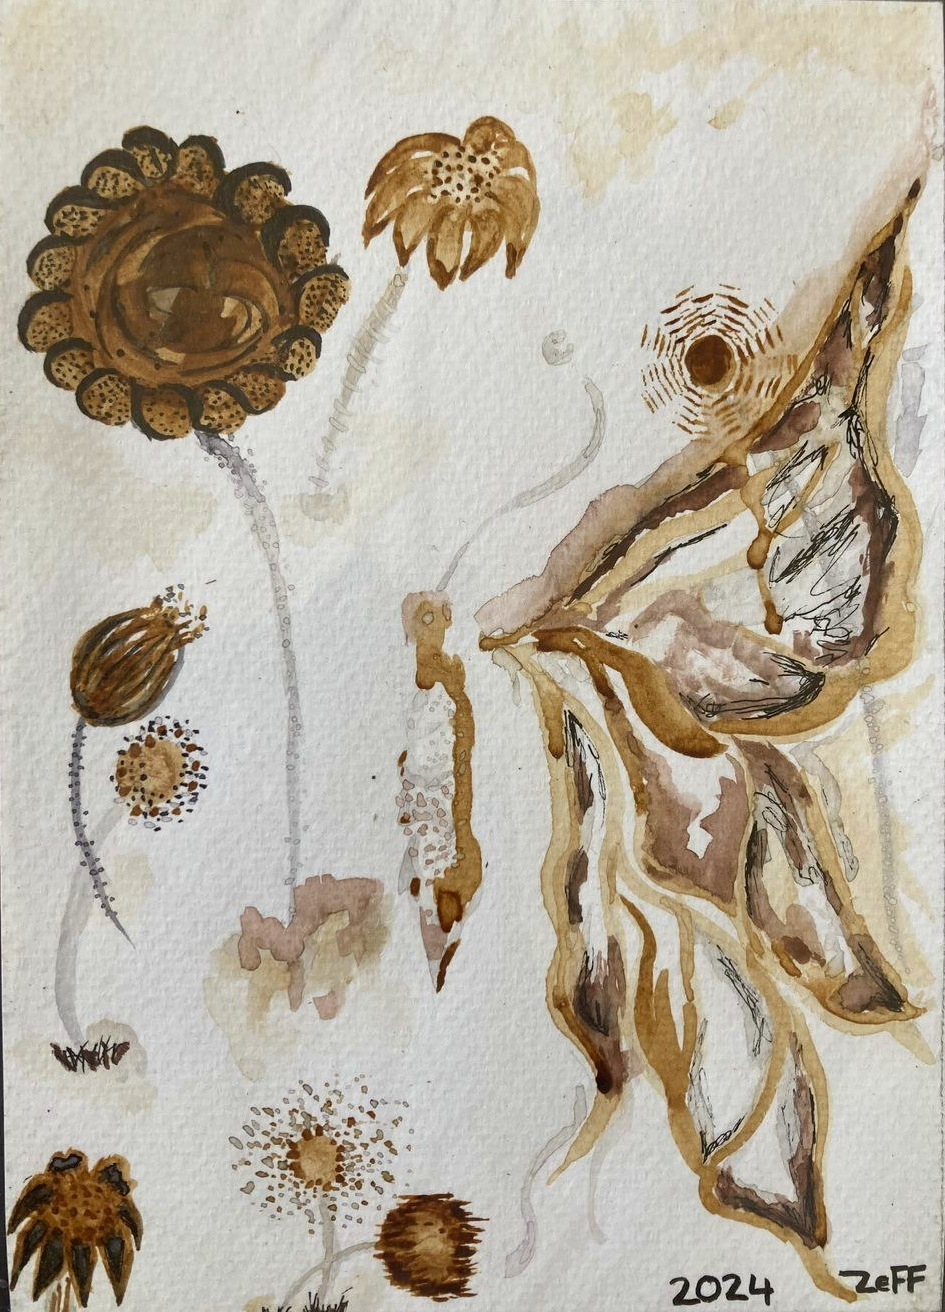
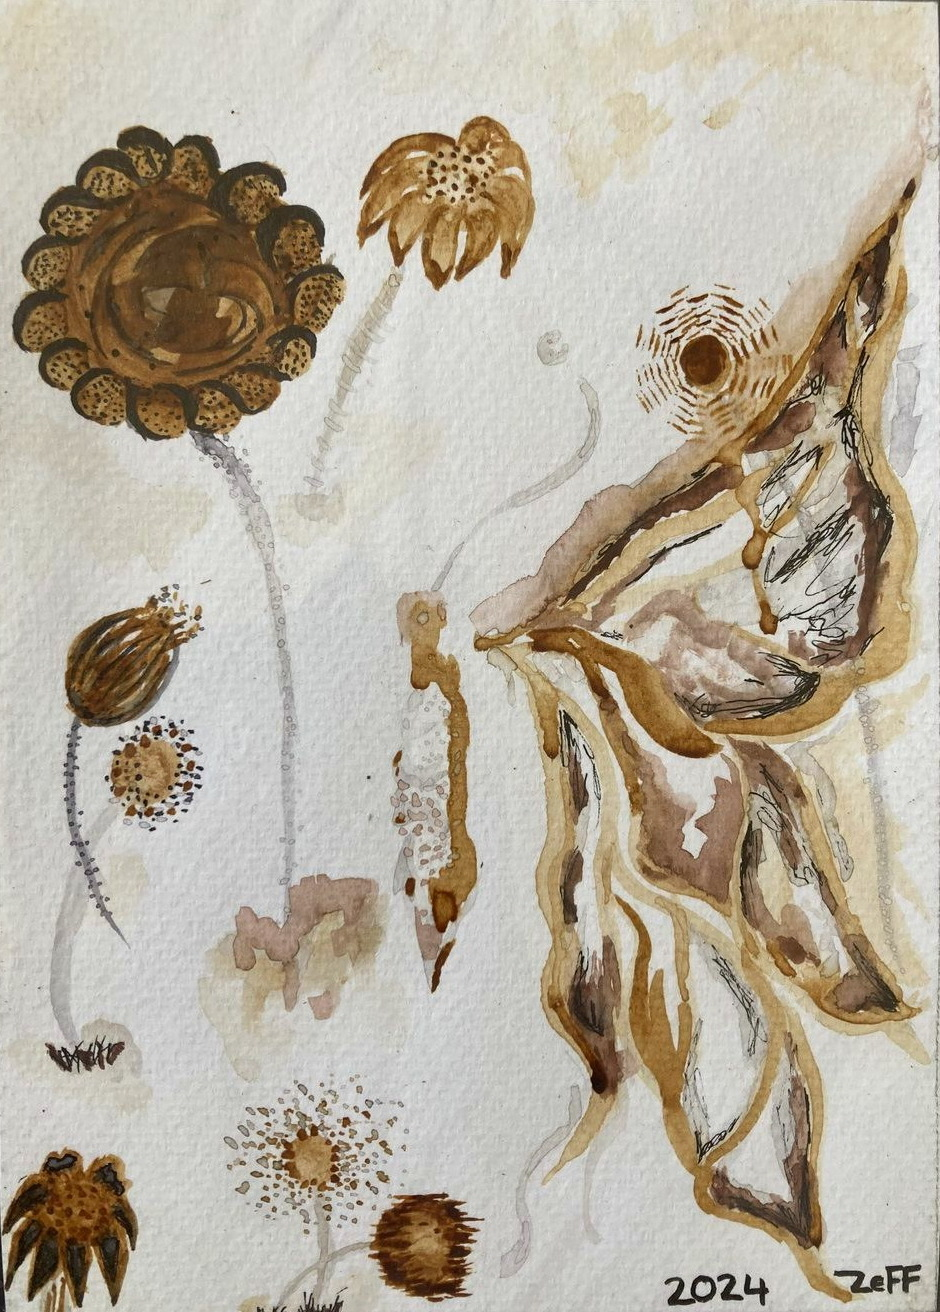
Oaheng's edge notes: trim stray borders, swap in edited Break Glass
Crops per her marked screenshots - pattern-relief loses the cardboard
tray, twine-1 the top and bottom strips, butterfly-3 and botanical a
thin dark line down the left edge, mpho the bleed from the neighbouring
photo along its right edge.

Break Glass is replaced with Dominic's Photoshop edit: the fire-alarm
sign is gone and the sjambok tail is no longer cut off at the frame.

Also stops two thumbs being upscaled past their source (mpho,
tlhohonolofatso) - a regression from the previous crop pass.

diff --git a/index.html b/index.html
@@ -791,7 +791,7 @@ footer.bg-12-footer{padding-top:calc(40px + 64px)}
     </div>
     <div class="series-grid">
       <figure class="work rv" data-slug="orania"><div class="ai"><div class="art-img"><img src="images/thumb/orania.webp" loading="lazy" alt="" width="620" height="498"><span class="enlarge">+</span></div></div><figcaption><b>Orania: Die Verbode Vrugte</b><span>Acrylic on glass · 2025</span></figcaption></figure>
-      <figure class="work rv" data-slug="flag"><div class="ai"><div class="art-img"><img src="images/thumb/flag.webp" loading="lazy" alt="" width="620" height="490"><span class="enlarge">+</span></div></div><figcaption><b>Untitled (Flag)</b><span>Acrylic on canvas · 2025</span></figcaption></figure>      <figure class="work rv" data-slug="break-glass"><div class="ai"><div class="art-img"><img src="images/thumb/break-glass.webp" loading="lazy" alt="" width="620" height="492"><span class="enlarge">+</span></div></div><figcaption><b>Untitled (Break Glass)</b><span>Mixed media · 2025</span></figcaption></figure>
+      <figure class="work rv" data-slug="flag"><div class="ai"><div class="art-img"><img src="images/thumb/flag.webp" loading="lazy" alt="" width="620" height="490"><span class="enlarge">+</span></div></div><figcaption><b>Untitled (Flag)</b><span>Acrylic on canvas · 2025</span></figcaption></figure>      <figure class="work rv" data-slug="break-glass"><div class="ai"><div class="art-img"><img src="images/thumb/break-glass.webp" loading="lazy" alt="" width="620" height="539"><span class="enlarge">+</span></div></div><figcaption><b>Untitled (Break Glass)</b><span>Mixed media · 2025</span></figcaption></figure>
     </div>
   </div>
 </section>
@@ -819,14 +819,14 @@ footer.bg-12-footer{padding-top:calc(40px + 64px)}
       </div>
     </div>
     <div class="series-grid">
-      <figure class="work rv" data-slug="pattern-relief"><div class="ai"><div class="art-img"><img src="images/thumb/pattern-relief.webp" loading="lazy" alt="" width="620" height="1225"><span class="enlarge">+</span></div></div><figcaption><b>Untitled (Pattern Relief)</b><span>Twine work</span></figcaption></figure>
+      <figure class="work rv" data-slug="pattern-relief"><div class="ai"><div class="art-img"><img src="images/thumb/pattern-relief.webp" loading="lazy" alt="" width="620" height="1262"><span class="enlarge">+</span></div></div><figcaption><b>Untitled (Pattern Relief)</b><span>Twine work</span></figcaption></figure>
       <figure class="work rv" data-slug="tshehetso-triptych"><div class="ai"><div class="art-img"><img src="images/thumb/tshehetso-triptych.webp" loading="lazy" alt="Tshehetso (Support) — the complete triptych" width="620" height="325"><span class="enlarge">+</span></div></div><figcaption><b>Tshehetso (Support)</b><span>the triptych · 2025</span></figcaption></figure>
       <figure class="work rv" data-slug="twine-5"><div class="ai"><div class="art-img"><img src="images/thumb/twine-5.webp" loading="lazy" alt="Molefi — the first panel of Tshehetso" width="620" height="910"><span class="enlarge">+</span></div></div><figcaption><b>Molefi</b><span>Tshehetso · panel i · 2025</span></figcaption></figure>
       <figure class="work rv" data-slug="twine-3"><div class="ai"><div class="art-img"><img src="images/thumb/twine-3.webp" loading="lazy" alt="Katlego — the second panel of Tshehetso" width="620" height="758"><span class="enlarge">+</span></div></div><figcaption><b>Katlego</b><span>Tshehetso · panel ii · 2025</span></figcaption></figure>
-      <figure class="work rv" data-slug="tlhohonolofatso"><div class="ai"><div class="art-img"><img src="images/thumb/tlhohonolofatso.webp" loading="lazy" alt="Tlhohonolofatso — the third panel of Tshehetso" width="620" height="1236"><span class="enlarge">+</span></div></div><figcaption><b>Tlhohonolofatso</b><span>Tshehetso · panel iii · 2025</span></figcaption></figure>
-      <figure class="work rv" data-slug="twine-1" data-nolb><div class="ai"><div class="art-img"><img src="images/thumb/twine-1.webp" loading="lazy" alt="woven relief" width="620" height="1161"></div></div><figcaption><b>Untitled</b><span>woven relief</span></figcaption></figure>
+      <figure class="work rv" data-slug="tlhohonolofatso"><div class="ai"><div class="art-img"><img src="images/thumb/tlhohonolofatso.webp" loading="lazy" alt="Tlhohonolofatso — the third panel of Tshehetso" width="300" height="598"><span class="enlarge">+</span></div></div><figcaption><b>Tlhohonolofatso</b><span>Tshehetso · panel iii · 2025</span></figcaption></figure>
+      <figure class="work rv" data-slug="twine-1" data-nolb><div class="ai"><div class="art-img"><img src="images/thumb/twine-1.webp" loading="lazy" alt="woven relief" width="620" height="1144"></div></div><figcaption><b>Untitled</b><span>woven relief</span></figcaption></figure>
       <figure class="work rv" data-slug="twine-pink"><div class="ai"><div class="art-img"><img src="images/thumb/twine-pink.webp" loading="lazy" alt="Woman of the vine — a pink and red twine relief" width="620" height="1102"><span class="enlarge">+</span></div></div><figcaption><b>Woman of the vine</b><span>Twine &amp; thread on woven ground · 2026</span></figcaption></figure>
-      <figure class="work rv" data-slug="mpho"><div class="ai"><div class="art-img"><img src="images/thumb/mpho.webp" loading="lazy" alt="Mpho" width="436" height="900"><span class="enlarge">+</span></div></div><figcaption><b>Mpho</b><span>Acrylic-covered twine on wood · 2026</span></figcaption></figure>
+      <figure class="work rv" data-slug="mpho"><div class="ai"><div class="art-img"><img src="images/thumb/mpho.webp" loading="lazy" alt="Mpho" width="395" height="900"><span class="enlarge">+</span></div></div><figcaption><b>Mpho</b><span>Acrylic-covered twine on wood · 2026</span></figcaption></figure>
       <figure class="work rv" data-slug="red-15"><div class="ai"><div class="art-img"><img src="images/thumb/red-15.webp" loading="lazy" alt="" width="620" height="502"><span class="enlarge">+</span></div></div><figcaption><b>Untitled</b><span>Mixed media &amp; twine · 2025</span></figcaption></figure>
     </div>
   </div>
@@ -863,8 +863,8 @@ footer.bg-12-footer{padding-top:calc(40px + 64px)}
       <figure class="work rv" data-slug="anatomy"><div class="ai"><div class="art-img"><img src="images/thumb/anatomy.webp" loading="lazy" alt="" width="620" height="542"><span class="enlarge">+</span></div></div><figcaption><b>Anatomy Study</b><span>Mixed media</span></figcaption></figure>
       <figure class="work rv" data-slug="butterfly-1"><div class="ai"><div class="art-img"><img src="images/thumb/butterfly-1.webp" loading="lazy" alt="" width="620" height="910"><span class="enlarge">+</span></div></div><figcaption><b>Butterfly Study I</b><span>Coffee on paper</span></figcaption></figure>
       <figure class="work rv" data-slug="butterfly-2"><div class="ai"><div class="art-img"><img src="images/thumb/butterfly-2.webp" loading="lazy" alt="" width="620" height="906"><span class="enlarge">+</span></div></div><figcaption><b>Butterfly Study II</b><span>Coffee on paper</span></figcaption></figure>
-      <figure class="work rv" data-slug="butterfly-3"><div class="ai"><div class="art-img"><img src="images/thumb/butterfly-3.webp" loading="lazy" alt="" width="620" height="868"><span class="enlarge">+</span></div></div><figcaption><b>Butterfly Study III</b><span>Coffee &amp; colour</span></figcaption></figure>
-      <figure class="work rv" data-slug="botanical"><div class="ai"><div class="art-img"><img src="images/thumb/botanical.webp" loading="lazy" alt="" width="620" height="861"><span class="enlarge">+</span></div></div><figcaption><b>Botanical Study</b><span>Coffee on paper</span></figcaption></figure>
+      <figure class="work rv" data-slug="butterfly-3"><div class="ai"><div class="art-img"><img src="images/thumb/butterfly-3.webp" loading="lazy" alt="" width="620" height="872"><span class="enlarge">+</span></div></div><figcaption><b>Butterfly Study III</b><span>Coffee &amp; colour</span></figcaption></figure>
+      <figure class="work rv" data-slug="botanical"><div class="ai"><div class="art-img"><img src="images/thumb/botanical.webp" loading="lazy" alt="" width="620" height="865"><span class="enlarge">+</span></div></div><figcaption><b>Botanical Study</b><span>Coffee on paper</span></figcaption></figure>
       <figure class="work rv" data-slug="butterfly-gold"><div class="ai"><div class="art-img"><img src="images/thumb/butterfly-gold.webp" loading="lazy" alt="" width="620" height="1024"><span class="enlarge">+</span></div></div><figcaption><b>Untitled (Monarch)</b><span>Ink &amp; bleach</span></figcaption></figure>
       <figure class="work rv" data-slug="pop-portrait"><div class="ai"><div class="art-img"><img src="images/thumb/pop-portrait.webp" loading="lazy" alt="" width="620" height="882"><span class="enlarge">+</span></div></div><figcaption><b>Untitled (Portrait)</b><span>Colour pencil &amp; graphite</span></figcaption></figure>
       <figure class="work rv" data-slug="figure-teal"><div class="ai"><div class="art-img"><img src="images/thumb/figure-teal.webp" loading="lazy" alt="" width="620" height="849"><span class="enlarge">+</span></div></div><figcaption><b>Untitled (Figure in Blue)</b><span>Mixed medium</span></figcaption></figure>
